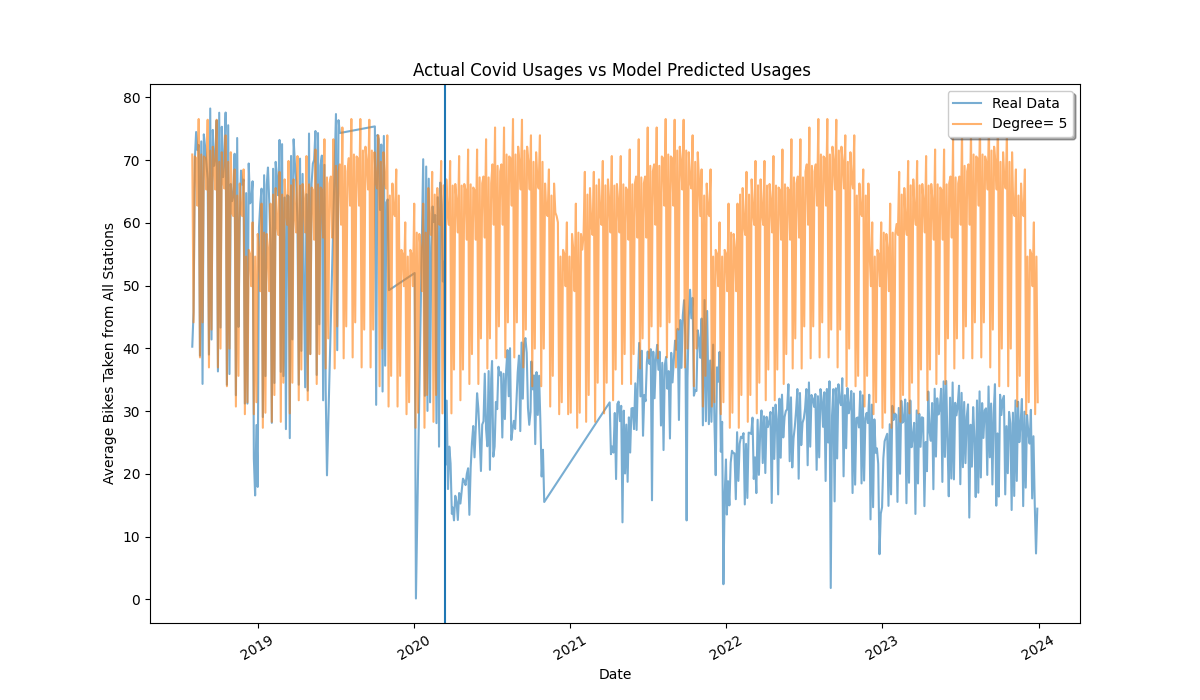
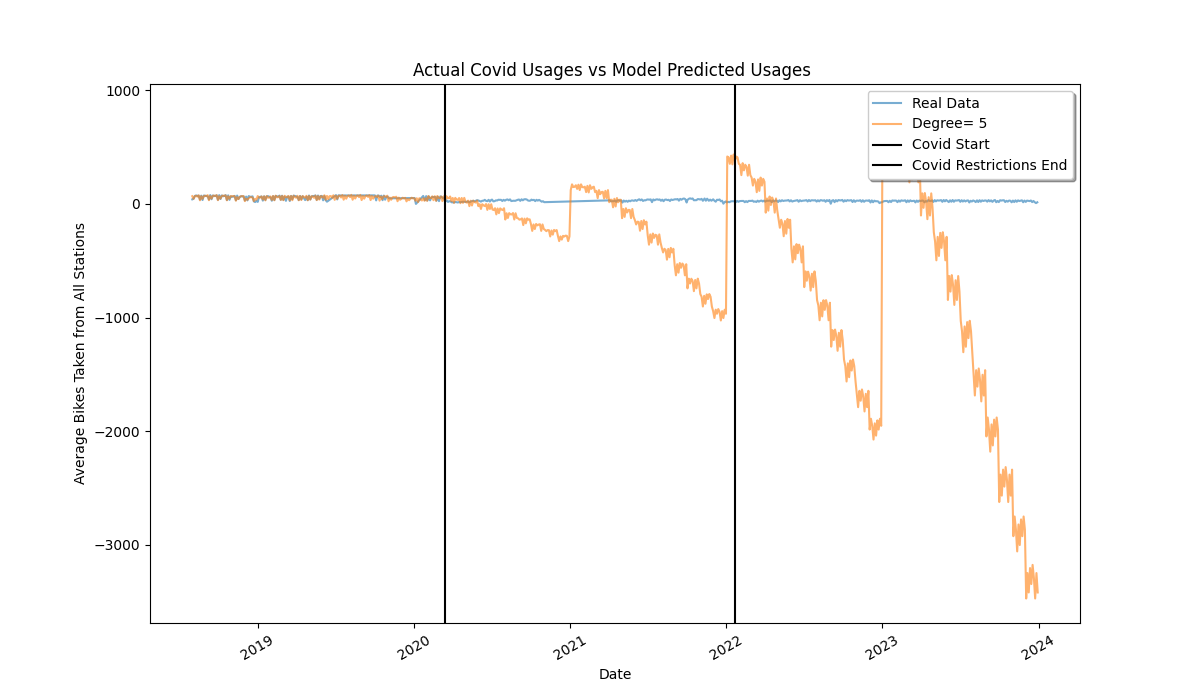
add var feature engineering

diff --git a/final/main.py b/final/main.py
@@ -8,13 +8,15 @@ from sklearn.dummy import DummyRegressor
 from sklearn.metrics import r2_score
 from sklearn.linear_model import LinearRegression
 from sklearn.preprocessing import PolynomialFeatures
-from statsmodels.tsa.arima.model import ARIMA
 from readfiles import readFiles
 
 plt.rcParams['figure.figsize'] = [12, 7]
 
 # Check if the condensed data file exists
 # If it does, use that data, if not reread all of the csv files and condense them per day
+
+# WARNING this process can take up to two hours!!
+# The file already exists, if you want to test the data preposessing you can delete it but expect to be waiting a long time. 
 if not os.path.exists("condenseddata.csv"):
     readFiles()
 
@@ -45,11 +47,17 @@ plt.show()
 # Remove year from date and only mark month and weekday
 months = []
 weekDays = []
+years = []
+days = []
 for date in dates:
     months.append(date.month)
     weekDays.append(date.day_of_week)
+    days.append(date.day)
+    years.append(date.year)
 months = pd.Series(months, index = None)
 weekDays = pd.Series(weekDays, index = None)
+days = pd.Series(days, index = None)
+years = pd.Series(years, index = None)
 
 # Split into only precovid data
 precovidBA = dates < "2020-03-15"
@@ -57,34 +65,91 @@ pcDates = dates[precovidBA]
 pcUsages = avgUsages[precovidBA]
 pcMonths = months[precovidBA]
 pcWeekDays = weekDays[precovidBA]
+pcDays = days[precovidBA]
+pcYears = years[precovidBA]
 
 # X's: month, weekday
 # Y: Usage
 pcX = np.column_stack((pcWeekDays,pcMonths))
+pcXY = np.column_stack((pcWeekDays,pcMonths, pcYears))
+pcXD = np.column_stack((pcDays, pcWeekDays,pcMonths))
+pcXYD = np.column_stack((pcDays, pcWeekDays,pcMonths, pcYears))
 
-## Train and test various models to find best fit parameters
-#Create test X's
-range = pd.date_range(start="2018-08-01",end="2020-03-15")
+rangedate = pd.date_range(start="2018-08-01",end="2020-03-15")
 monthsTest = []
 weekDaysTest = []
-for date in range:
+daysTest = []
+yearsTest = []
+for date in rangedate:
     monthsTest.append(date.month)
     weekDaysTest.append(date.day_of_week)
+    daysTest.append(date.day)
+    yearsTest.append(date.year)
 Xtest = np.column_stack((weekDaysTest,monthsTest))
+XtestY = np.column_stack((weekDaysTest,monthsTest, yearsTest))
+XtestD = np.column_stack((daysTest, weekDaysTest,monthsTest))
+XtestYD = np.column_stack((daysTest, weekDaysTest,monthsTest, yearsTest))
 
 #Remove dates that arent in training for scoring
-dateisInTestingBA = range.isin(pcDates)
+dateisInTestingBA = rangedate.isin(pcDates)
+
+#Train and test various models to find best variables
+pcXs = [pcX, pcXY, pcXD, pcXYD]
+Xtests = [Xtest, XtestY, XtestD, XtestYD]
+names = [["Weekdays", "Months"], ["Weekdays", "Months", "Years"], ["Days", "Weekdays", "Months"], ["Days", "Weekdays", "Months", "Years"]]
+
+for i in range(4):
+    #Train and Test
+    modelname = "Variables: "
+    for j in range(len(names[i])):
+        modelname = modelname + names[i][j] + " "
+    plt.plot(pcDates[::3], pcUsages[::3])
+
+    model = LinearRegression()
+    model.fit(pcXs[i], pcUsages)
+
+    ypred = model.predict(Xtests[i])
+
+    #Dummy model comparison
+    dr = DummyRegressor(strategy="mean")
+    dr.fit(pcXs[i], pcUsages)
+    ydummy = dr.predict(Xtests[i])
+
+    #Plot
+    plt.plot(rangedate[::3],ypred[::3], alpha=0.6) #Plot every 3rd day to be able to read graph
+    plt.plot(rangedate[::3],ydummy[::3], alpha=0.6) #Plot every 3rd day to be able to read graph
+
+    plt.xticks(rotation=30)
+    plt.xlabel("Date")
+    plt.ylabel("Average Bikes Taken from All Stations")
+    plt.legend(["Real Data", modelname, "Mean Dummy Model"], loc='upper right',fancybox=True, shadow=True)
+    plt.title("Pre-Covid Linear Regression Model Predictions different Variables")
+    stringname = "variablemodel" + int.__str__(i)
+    plt.savefig('./Report/' + stringname)
+    plt.show()
+
+    #Score
+    print("Linear model" + modelname + ":")
+    print(r2_score(pcUsages, ypred[dateisInTestingBA]))
+    print("Variable Coefficient")
+    for j in range(len(model.coef_)):
+        print("Coefficient theta -", names[i][j], ": ", model.coef_[j])
+
+    print("Dummy model" + modelname + ":")
+    print(r2_score(pcUsages, ydummy[dateisInTestingBA]))
+
+## Train and test various models to find best degree parameter
 
 degreePoly = [1, 2, 5, 7]
 for degree in degreePoly:
     #Train and Test
     plt.plot(pcDates[::3], pcUsages[::3])
-    polyX = PolynomialFeatures(degree).fit_transform(np.array(pcX))
+    polyX = PolynomialFeatures(degree).fit_transform(np.array(pcXY))
 
     model = LinearRegression()
     model.fit(polyX, pcUsages)
 
-    polyXTest = PolynomialFeatures(degree).fit_transform(np.array(Xtest))
+    polyXTest = PolynomialFeatures(degree).fit_transform(np.array(XtestY))
     ypred = model.predict(polyXTest)
 
     #Dummy model comparison
@@ -93,8 +158,8 @@ for degree in degreePoly:
     ydummy = dr.predict(polyXTest)
 
     #Plot
-    plt.plot(range[::3],ypred[::3], alpha=0.6) #Plot every 3rd day to be able to read graph
-    plt.plot(range[::3],ydummy[::3], alpha=0.6) #Plot every 3rd day to be able to read graph
+    plt.plot(rangedate[::3],ypred[::3], alpha=0.6) #Plot every 3rd day to be able to read graph
+    plt.plot(rangedate[::3],ydummy[::3], alpha=0.6) #Plot every 3rd day to be able to read graph
 
     plt.xticks(rotation=30)
     plt.xlabel("Date")
@@ -137,8 +202,8 @@ ypred = model.predict(polyXp)
 #Plot
 plt.plot(dates[::3],avgUsages[::3], alpha=0.6) #Plot every 3rd day to be able to read graph
 plt.plot(range[::3],ypred[::3], alpha=0.6) #Plot every 3rd day to be able to read graph
-plt.axvline(x = datetime.date(2020, 3, 15))
-plt.axvline(x = datetime.date(2022, 1, 22))
+plt.axvline(x = datetime.date(2020, 3, 15), color = 'black')
+plt.axvline(x = datetime.date(2022, 1, 22), color = 'black')
 
 plt.xticks(rotation=30)
 plt.xlabel("Date")
